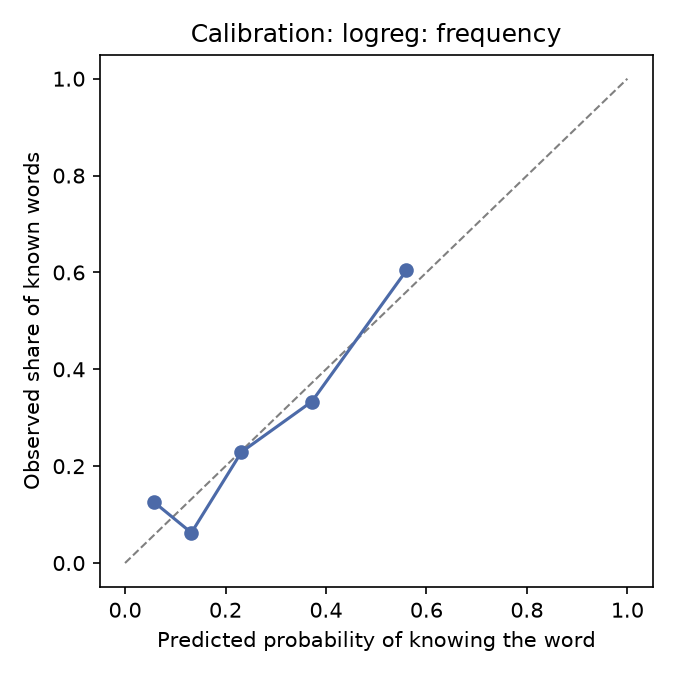
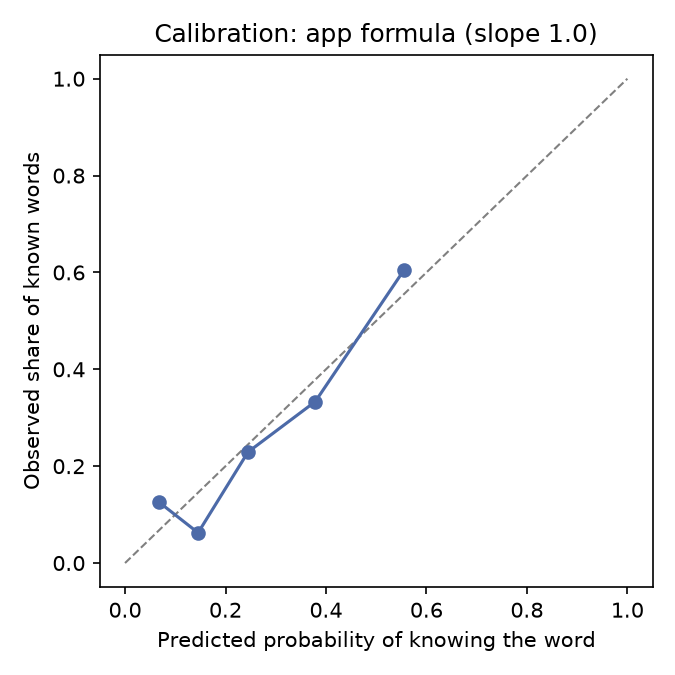
feat(ml): slope 1.0 chosen by cross-validation, threshold from all placement answers

diff --git a/backend/app/ml/compare_models.py b/backend/app/ml/compare_models.py
@@ -22,7 +22,7 @@ from sklearn.pipeline import make_pipeline  # noqa: E402
 from sklearn.preprocessing import StandardScaler  # noqa: E402
 
 from app.ml.features import FEATURE_SETS, add_features  # noqa: E402
-from app.nlp.knowledge import estimate_threshold, p_known  # noqa: E402
+from app.nlp.knowledge import SLOPE, estimate_threshold, p_known  # noqa: E402
 
 ROOT = Path(__file__).resolve().parents[3]
 DATA_PATH = ROOT / "ml" / "data" / "out" / "knowledge_dataset.csv"
@@ -32,14 +32,18 @@ MIN_ROWS = 60
 
 
 class AppFormula:
-    """The model used in the app: sigmoid(3 * (zipf - t)), t fitted on the answers."""
+    """The model used in the app: sigmoid(slope * (zipf - t)), t fitted on the answers."""
+
+    def __init__(self, slope: float = SLOPE):
+        self.slope = slope
 
     def fit(self, X, y):
-        self.threshold_ = estimate_threshold(list(zip(X["zipf"], np.asarray(y).astype(bool))))
+        answers = list(zip(X["zipf"], np.asarray(y).astype(bool)))
+        self.threshold_ = estimate_threshold(answers, self.slope)
         return self
 
     def predict_proba(self, X):
-        p = np.array([p_known(zipf, self.threshold_) for zipf in X["zipf"]])
+        p = np.array([p_known(zipf, self.threshold_, self.slope) for zipf in X["zipf"]])
         return np.column_stack([1 - p, p])
 
 
@@ -49,7 +53,10 @@ def make_models():
 
     return {
         "prior (no features)": ("frequency", lambda: DummyClassifier(strategy="prior")),
-        "app formula (fixed slope)": ("frequency", AppFormula),
+        **{
+            f"app formula (slope {slope})": ("frequency", lambda slope=slope: AppFormula(slope))
+            for slope in (0.75, 1.0, 1.5, 2.0, 3.0)
+        },
         "logreg: frequency": ("frequency", logreg),
         "logreg: frequency+form": ("frequency+form", logreg),
         "logreg: frequency+cognate": ("frequency+cognate", logreg),
@@ -138,7 +145,7 @@ def save_markdown(summary: pd.DataFrame, info: str) -> None:
 
 
 def plot_auc(summary: pd.DataFrame) -> None:
-    fig, ax = plt.subplots(figsize=(8, 4.5))
+    fig, ax = plt.subplots(figsize=(8, 0.5 * len(summary) + 1.5))
     positions = np.arange(len(summary))
     ax.barh(positions, summary["auc"], xerr=summary["auc_std"], color="#4c6aa8")
     ax.axvline(0.5, color="gray", linestyle="--", linewidth=1)

diff --git a/backend/tests/test_placement.py b/backend/tests/test_placement.py
@@ -1,6 +1,7 @@
 from sqlalchemy import select
 
-from app.models import Lemma, User
+from app.models import Lemma, PlacementAnswer, User
+from app.nlp.knowledge import estimate_threshold
 from test_report import auth_headers, seed_episode
 
 
@@ -63,3 +64,25 @@ def test_placement_offers_new_words(client):
     client.post("/placement/submit", json={"answers": answers}, headers=headers)
     second = client.get("/placement/words?n=20", headers=headers).json()
     assert not {w["lemma_id"] for w in first} & {w["lemma_id"] for w in second}
+
+def test_placement_threshold_uses_all_answers(client):
+    headers = auth_headers(client)
+    seed_lemmas(client)
+    with client.testing_session() as db:
+        zipf_by_id = {lemma.id: lemma.zipf for lemma in db.scalars(select(Lemma))}
+
+    result = None
+    for _ in range(2):
+        words = client.get("/placement/words?n=20", headers=headers).json()
+        answers = [
+            {"lemma_id": w["lemma_id"], "known": zipf_by_id[w["lemma_id"]] >= 3.25}
+            for w in words
+        ]
+        result = client.post(
+            "/placement/submit", json={"answers": answers}, headers=headers
+        ).json()
+
+    with client.testing_session() as db:
+        rows = db.execute(select(PlacementAnswer.zipf, PlacementAnswer.known)).all()
+    assert len(rows) == 40
+    assert result["vocab_threshold"] == estimate_threshold([(z, k) for z, k in rows])

diff --git a/backend/app/ml/recompute_thresholds.py b/backend/app/ml/recompute_thresholds.py
@@ -1,0 +1,34 @@
+"""Recompute every user's vocabulary threshold from all stored placement answers.
+
+Run after changing the model slope:
+    uv run python -m app.ml.recompute_thresholds
+"""
+import sys
+
+from sqlalchemy import select
+
+from app.database import SessionLocal
+from app.models import PlacementAnswer, User
+from app.nlp.knowledge import estimate_threshold
+
+
+def main() -> None:
+    sys.stdout.reconfigure(encoding="utf-8")
+    with SessionLocal() as db:
+        for user in db.scalars(select(User)):
+            rows = db.execute(
+                select(PlacementAnswer.lemma_id, PlacementAnswer.zipf, PlacementAnswer.known)
+                .where(PlacementAnswer.user_id == user.id)
+                .order_by(PlacementAnswer.id)
+            ).all()
+            if not rows:
+                continue
+            latest = {row.lemma_id: (row.zipf, row.known) for row in rows}
+            old = user.vocab_threshold
+            user.vocab_threshold = estimate_threshold(list(latest.values()))
+            print(f"user {user.id}: {len(latest)} words, threshold {old} -> {user.vocab_threshold}")
+        db.commit()
+
+
+if __name__ == "__main__":
+    main()

diff --git a/backend/app/nlp/knowledge.py b/backend/app/nlp/knowledge.py
@@ -1,7 +1,7 @@
 import math
 import random
 
-SLOPE = 3.0
+SLOPE = 1.0
 PRIOR_MEAN = 3.5
 PRIOR_SD = 1.0
 GRID = [round(1.0 + 0.05 * step, 2) for step in range(91)]
@@ -13,14 +13,14 @@ def p_known(zipf: float, threshold: float, slope: float = SLOPE) -> float:
     return 1 / (1 + math.exp(-slope * (zipf - threshold)))
 
 
-def estimate_threshold(answers: list[tuple[float, bool]]) -> float:
+def estimate_threshold(answers: list[tuple[float, bool]], slope: float = SLOPE) -> float:
     """MAP estimate of the user's threshold from (zipf, known) answers."""
     best_threshold = PRIOR_MEAN
     best_score = -math.inf
     for threshold in GRID:
         score = -((threshold - PRIOR_MEAN) ** 2) / (2 * PRIOR_SD**2)
         for zipf, known in answers:
-            p = min(max(p_known(zipf, threshold), 1e-6), 1 - 1e-6)
+            p = min(max(p_known(zipf, threshold, slope), 1e-6), 1 - 1e-6)
             score += math.log(p if known else 1 - p)
         if score > best_score:
             best_threshold, best_score = threshold, score

diff --git a/backend/app/routers/placement.py b/backend/app/routers/placement.py
@@ -94,6 +94,14 @@ def placement_submit(
             else:
                 db.add(UserWord(user_id=user.id, lemma_id=lemma_id, status="known"))
 
+    db.flush()
+    history = db.execute(
+        select(PlacementAnswer.lemma_id, PlacementAnswer.zipf, PlacementAnswer.known)
+        .where(PlacementAnswer.user_id == user.id)
+        .order_by(PlacementAnswer.id)
+    ).all()
+    latest = {row.lemma_id: (row.zipf, row.known) for row in history}
+    threshold = estimate_threshold(list(latest.values()))
     user.vocab_threshold = threshold
     db.commit()
     return schemas.PlacementResult(

diff --git a/ml/results/metrics.md b/ml/results/metrics.md
@@ -3,7 +3,11 @@ Data: 240 labels, 238 distinct words, 2 user(s), 27% known. Source: placement. 2
 | Model | AUC | Log-loss | Brier |
 |---|---|---|---|
 | prior (no features) | 0.500 ± 0.000 | 0.584 ± 0.000 | 0.197 |
-| app formula (fixed slope) | 0.774 ± 0.001 | 0.620 ± 0.002 | 0.172 |
+| app formula (slope 0.75) | 0.774 ± 0.001 | 0.499 ± 0.000 | 0.162 |
+| app formula (slope 1.0) | 0.774 ± 0.001 | 0.491 ± 0.000 | 0.159 |
+| app formula (slope 1.5) | 0.774 ± 0.001 | 0.498 ± 0.001 | 0.158 |
+| app formula (slope 2.0) | 0.774 ± 0.001 | 0.527 ± 0.001 | 0.162 |
+| app formula (slope 3.0) | 0.774 ± 0.001 | 0.620 ± 0.002 | 0.172 |
 | logreg: frequency | 0.769 ± 0.004 | 0.497 ± 0.004 | 0.159 |
 | logreg: frequency+form | 0.762 ± 0.012 | 0.500 ± 0.010 | 0.163 |
 | logreg: frequency+cognate | 0.760 ± 0.005 | 0.504 ± 0.006 | 0.162 |
@@ -17,7 +21,11 @@ Bootstrap 95% intervals over words (1000 draws). A difference counts as real onl
 | Model | AUC 95% interval | AUC difference vs logreg: frequency |
 |---|---|---|
 | prior (no features) | 0.500 to 0.500 | -0.269 (-0.333 to -0.197) |
-| app formula (fixed slope) | 0.704 to 0.839 | +0.006 (+0.003 to +0.010) |
+| app formula (slope 0.75) | 0.704 to 0.839 | +0.006 (+0.002 to +0.010) |
+| app formula (slope 1.0) | 0.705 to 0.838 | +0.006 (+0.003 to +0.010) |
+| app formula (slope 1.5) | 0.705 to 0.839 | +0.006 (+0.003 to +0.010) |
+| app formula (slope 2.0) | 0.704 to 0.839 | +0.006 (+0.003 to +0.010) |
+| app formula (slope 3.0) | 0.704 to 0.839 | +0.006 (+0.003 to +0.010) |
 | logreg: frequency | 0.697 to 0.833 | +0.000 (+0.000 to +0.000) |
 | logreg: frequency+form | 0.700 to 0.835 | +0.000 (-0.038 to +0.035) |
 | logreg: frequency+cognate | 0.690 to 0.825 | -0.008 (-0.012 to -0.005) |
